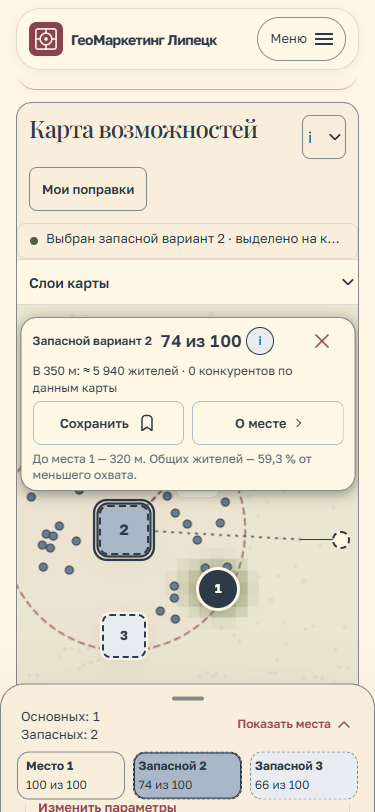
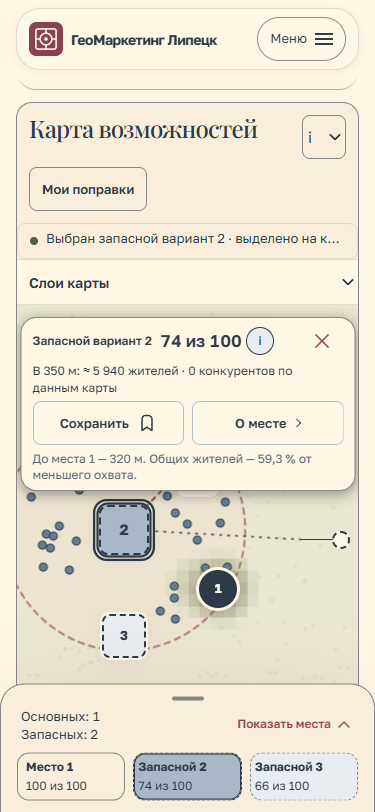
состояния мобильной панели

Changed region(s): [[0.0587, 0.9236, 0.6453, 1.0], [0.6747, 0.9236, 0.88, 0.9852]]

diff --git a/static/css/atlas.css b/static/css/atlas.css
@@ -364,6 +364,7 @@ html[data-page-visible=false] *,html[data-page-visible=false] *::after { animati
  .sheet-summary { display:block; font-size:13px; line-height:20px; color:var(--color-ink); font-variant-numeric:tabular-nums; }
  .sheet-summary-counts { display:grid; text-align:left; line-height:18px; }
  #recommendations[data-snap=expanded] .sheet-summary-counts { visibility:hidden; }
+ #recommendations[data-sheet-active=true][data-snap=peek]:not([data-moving]):not([data-dragging]):has(.sheet-summary-counts)>:not(.sheet-controls) { visibility:hidden; }
  #recommendations .sheet-place[data-place-role=alternative] { border-style:dashed; background:var(--palette-sky-soft); padding-inline:var(--space-1); }
  #recommendations .sheet-place[data-place-role=alternative][aria-pressed=true] { border-color:var(--palette-ink); background:var(--palette-sky); box-shadow:inset 0 0 0 1px var(--palette-ink); }
  #recommendations:not([data-sheet-layout=false]) { position:fixed; z-index:800; left:0; bottom:0; width:100%; height:88dvh; max-height:none; border-radius:var(--radius-xxl) var(--radius-xxl) 0 0; box-shadow:var(--shadow-dialog); padding:4px 16px max(16px,env(safe-area-inset-bottom)); transform:translateY(100%); opacity:0; pointer-events:none; transition:transform 450ms cubic-bezier(.2,.8,.2,1),opacity 450ms ease-out; }

diff --git a/tests/smoke/alternative-ui.spec.js b/tests/smoke/alternative-ui.spec.js
@@ -105,6 +105,10 @@ test.describe('мобильные карточки и карта', () => {
     }).toBe(true);
     await popup.getByRole('button', { name: 'Закрыть выноску' }).tap();
     await expect(popup).toHaveCount(0);
+    await expect(sheet.locator('.recommendations-context-row')).toBeHidden();
+    await sheet.locator('.sheet-handle').tap();
+    await expect(sheet.getByRole('button', { name: 'Свернуть результаты' })).toBeVisible();
+    await expect(sheet.locator('.recommendations-context-row')).toBeVisible();
     expect(await sheet.evaluate(el => {
       const ids = [...el.querySelectorAll('[id]')].map(node => node.id);
       return document.documentElement.scrollWidth <= innerWidth && ids.length === new Set(ids).size;

diff --git a/static/js/result-sheet.js b/static/js/result-sheet.js
@@ -57,6 +57,8 @@ function setSnap(next){
  sheet.setAttribute('role',expanded?'dialog':'region');
  if(expanded)sheet.setAttribute('aria-modal','true');else sheet.removeAttribute('aria-modal');
  handle.setAttribute('aria-expanded',String(expanded));closeButton.hidden=!expanded;rail.inert=expanded;
+ if(expanded)handle.setAttribute('aria-label','Свернуть результаты');
+ else handle.removeAttribute('aria-label');
  sheet.style.setProperty('--sheet-offset',`${snap==='peek'?offset():0}px`);
  sheet.style.setProperty('--sheet-visible',`${snap==='peek'?peekHeight():sheet.getBoundingClientRect().height}px`);
  syncReserve();
